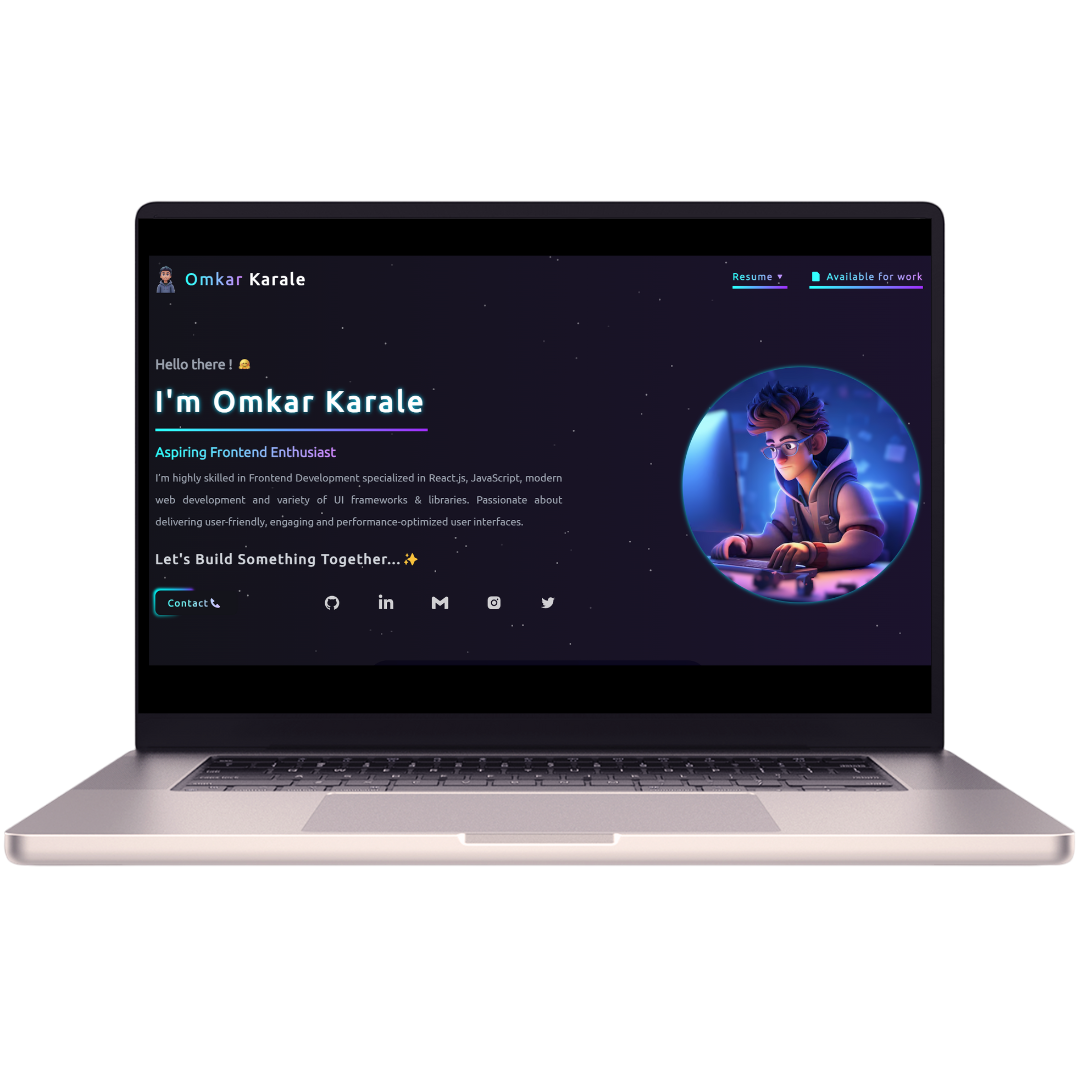
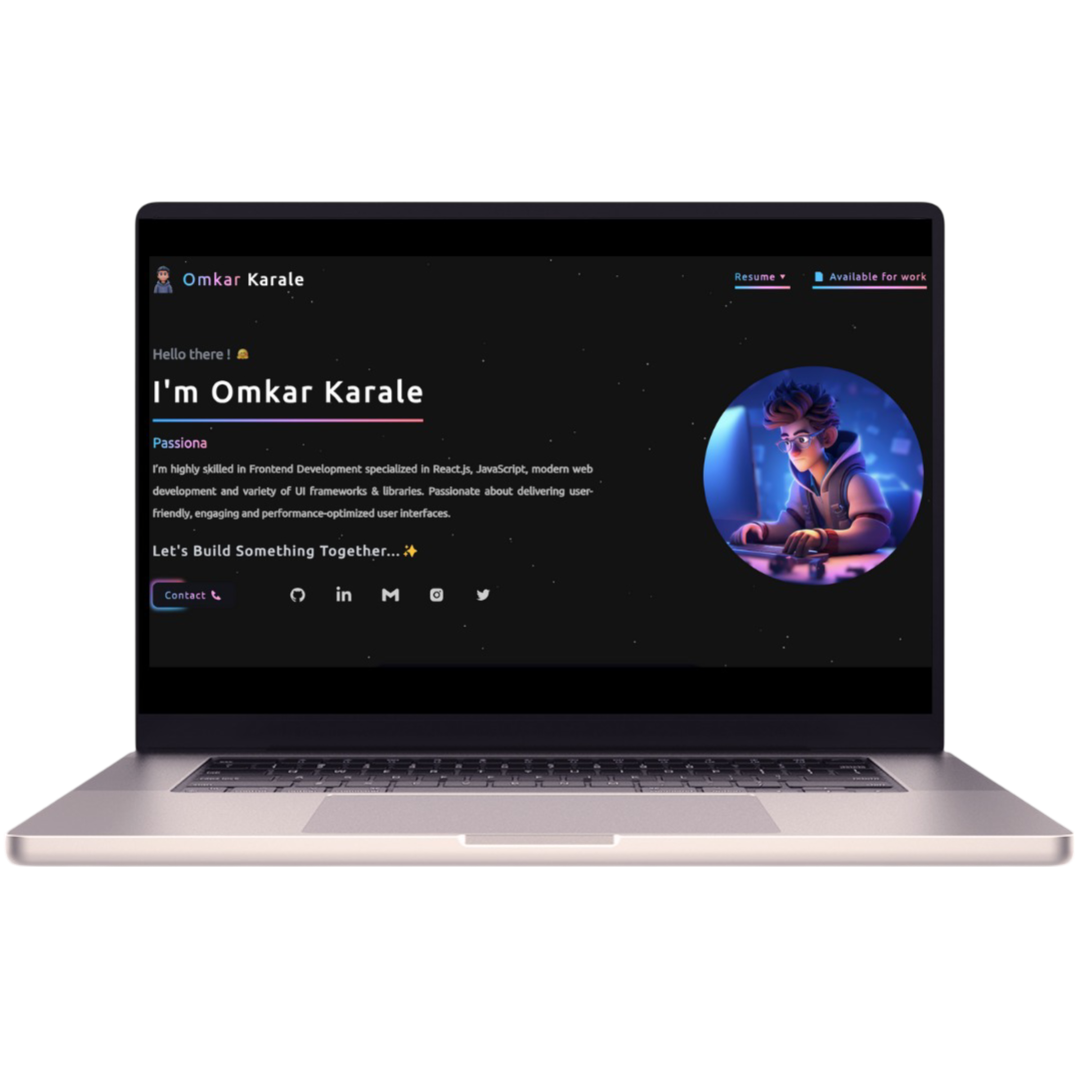
Modified the components for better UX

diff --git a/src/Components/Experience.jsx b/src/Components/Experience.jsx
@@ -19,31 +19,30 @@ const Experience = () => {
         </div>
         <div className='text-sm text-justify text-white/70'>
           <ul className='my-4'>
-            <li className='mb-2 flex items-center gap-2'>
-              <MdOutlineRemove className='font-extrabold max-sm:text-xl text-white' />
-              Designed and delivered responsive, high-performance user interfaces using React.js, ensuring a consistent and seamless experience across all devices and platforms.
+            <li className='mb-2 max-sm:mb-3 flex items-center gap-2'>
+              <MdOutlineRemove className='font-extrabold text-white text-xl max-sm:hidden' />
+              Designed and delivered impactful, scalable user interfaces using React.js, optimized development efficiency through the creation of modular, reusable components that improved code maintainability and reduced complexity.
             </li>
-            <li className='mb-2 flex items-center gap-2'>
-              <MdOutlineRemove className='font-extrabold max-sm:text-2xl text-lg text-white' />
-              Actively contributed to code reviews, identifying and resolving bugs while enhancing overall code quality.
-              Provided critical input on UI/UX design improvements, optimizing application flow and user experience.
+            <li className='mb-2 max-sm:mb-3 flex items-center gap-2'>
+              <MdOutlineRemove className='font-extrabold text-2xl text-white max-sm:hidden' />
+              Worked closely with designers to provide actionable feedback on UI/UX improvements that enhanced the overall application flow. Actively contributed to code reviews, identifying and resolving bugs, and implementing best practices for cleaner, and more maintainable code.
             </li>
-            <li className='mb-2 flex items-center gap-2'>
-              <MdOutlineRemove className='font-extrabold max-sm:text-xl text-white' />
-              Collaborated closely with senior developers to refine user interface designs, contributing to the continuous improvement of coding standards and best practices across the team.
+            <li className='mb-2 max-sm:mb-3 flex items-center gap-2'>
+              <MdOutlineRemove className='font-extrabold max-sm:text-xl text-white max-sm:hidden' />
+              Collaborated with cross-functional teams to refine UI designs, ensuring alignment with business goals and improving feature usability.
             </li>
-            <li className='mb-2 flex items-center gap-2'>
-              <MdOutlineRemove className='font-extrabold max-sm:text-xl text-white' />
-              Gained hands-on experience in web development, focusing on front-end technologies including HTML5, CSS3, JavaScript, React.js, and React-Bootstrap.
+            <li className='mb-2 max-sm:mb-3 flex items-center gap-2'>
+              <MdOutlineRemove className='font-extrabold max-sm:text-xl text-white max-sm:hidden' />
+              Implemented a responsive web design system that delivered a seamless, high-quality user experience across devices and platforms, ensuring consistency and accessibility.
             </li>
-            <li className='mb-2 flex items-center gap-2'>
-              <MdOutlineRemove className='font-extrabold max-sm:text-xl text-white' />
-              Utilized Git and GitHub for version control and collaborative development, ensuring streamlined code management and project tracking.
+            <li className='mb-2 max-sm:mb-3 flex items-center gap-2'>
+              <MdOutlineRemove className='font-extrabold max-sm:text-xl text-white max-sm:hidden' />
+              Utilized modern web technologies like HTML5, CSS3, JavaScript, React.js, and React-Bootstrap to deliver clean, efficient code with a strong emphasis on performance and scalability.
             </li>
           </ul>
 
           <div>
-            <p><h4 className='text-white font-bold'>Skills:</h4> React.js, HTML5, Cascading Style Sheets, (CSS), Bootstrap (Framework), JavaScript, User Experience (UX), User Interface Design</p>
+            <p><h4 className='text-white font-bold'>Skills:</h4> React.js, HTML5, Cascading Style Sheets (CSS), React-Bootstrap, JavaScript, User Interface Design, Git & GitHub</p>
           </div>
         </div>
       </div>

diff --git a/src/Components/Banner.jsx b/src/Components/Banner.jsx
@@ -23,8 +23,10 @@ const Banner = () => {
           <div className='flex flex-col sm:mt-12 lg:gap-2 gap-4 max-sm:mt-10 max-sm:mx-auto lg:w-[100%]'>
             <div className='w-full space-y-4 flex flex-col max-sm:items-center sm:items-center md:items-center lg:items-start hide-scrollbar'>
               <h1 className='flex gap-2 items-center lg:text-md text-xl font-bold animate-pulse text-gray-400 cursor-pointer hover:-translate-y-1 transition-all duration-500'>Hello there ! <img src={HII} alt="" className='w-7 h-7 lg:w-5 lg:h-5' /></h1>
-              <h1 className='font-extrabold py-2 lg:text-[2.5rem] text-[2.25rem] min-[320px]:text-[2rem] min-[1024px]:text-[2.625rem] tracking-widest img'> I'm Omkar Karale</h1>
-              <div className='lg:w-[61.5%] max-sm:w-[82%] md:w-[60%] h-1 bg-gradient-to-r from-[#2e86de] via-[#A071C4] to-[#D76571] animate-slideFade brightness-125'></div>
+              <div className='space-y-3'>
+                <h1 className='font-extrabold py-2 lg:text-[2.5rem] text-[2.25rem] min-[320px]:text-[2rem] min-[1024px]:text-[2.625rem] tracking-widest img'> I'm Omkar Karale</h1>
+                <div className='w-[100%] h-1 bg-gradient-to-r from-[#2e86de] via-[#A071C4] to-[#D76571] animate-slideFade brightness-125'></div>
+              </div>
               <div className='text-xl font-semibold text-gradient hover:text-gradient'>
                 <TypeAnimation
                   sequence={["Aspiring Frontend Enthusiast", 2000, "Passionate Web Developer", 2000, "Eager Learner of Web Wizardry", 2000]}
@@ -37,14 +39,14 @@ const Banner = () => {
               </div>
             </div>
             <div className="flex flex-col lg:items-start items-center md:gap-6 gap-8 w-full mx-auto">
-              <p className="text-[1rem] font-semibold  text-white/70 sm:text-[.95rem] text-justify">  I’m highly skilled in Frontend Development specialized in React.js, JavaScript, modern web development and variety of UI frameworks & libraries. Passionate about delivering user-friendly, engaging and performance-optimized user interfaces.
+              <p className="text-[0.95rem] font-semibold  text-white/70 sm:text-[1rem] text-justify">  I’m highly skilled in Frontend Development specialized in React.js, JavaScript, modern web development and variety of UI frameworks & libraries. Passionate about delivering user-friendly, engaging and performance-optimized user interfaces.
               </p>
               <div className="tracking-widest shadow-2x font-semibold hide-scrollbar">
-                <h1 data-aos="fade-up" data-aos-duration="2000" className='text-gray-300 lg:text-xl md:text-2xl max-xs:text-[18px] sm:text-2xl max-sm:text-xl '>Let's Build Something Together...✨</h1>
+                <h1 data-aos="fade-up" data-aos-duration="2000" className='text-gray-300 text-xl block mx-auto text-center'>Let's Build Something Together...✨</h1>
               </div>
               <div className='flex min-[1024px]:flex-nowrap min-[1024px]:gap-10 flex-wrap justify-between md:w-[100%] lg:w-[80%] w-[100%] sm:gap-y-12 max-sm:gap-y-12 md:gap-y-5 lg:gap-y-0 lg:py-2 py-3 cursor-pointer'>
                 <div className={`md:hidden min-[1024px]:hidden sm:hidden content`}>
-                  <NavLink to='https://drive.google.com/file/d/1rd5hOJNFTWpUasmsJAt4Wlr007IrZB6r/view?usp=sharing'>
+                  <NavLink to='https://drive.google.com/file/d/13uNqu7w0nDWGEncYf7l958qsKiJPJV3r/view?usp=sharing'>
                     <span className="flex items-center justify-center gap-2 tracking-widest text-gradient hover:-translate-y-1 transition-all ease-in-out duration-700">
                       Resume🔻
                       {/* <TiArrowSortedDown /> */}
@@ -91,7 +93,7 @@ const Banner = () => {
               </div>
             </div>
           </div>
-          <div className='block m-auto w-[100%] md:w-[50%] hover:animate-pulse lg:mx-0' data-aos="fade-left" data-aos-duration="2000">
+          <div className='block m-auto w-[100%] md:w-[55%] hover:animate-pulse lg:mx-0' data-aos="fade-left" data-aos-duration="2000">
             <img src={PIC} alt="Profile" className='lg:mt-10 rounded-full img m-auto' />
           </div>
         </div>

diff --git a/src/Components/Education.jsx b/src/Components/Education.jsx
@@ -24,13 +24,13 @@ const Education = () => {
   return (
     <div className="w-full h-auto shadow-inner shadow-[#789fef] hover:shadow-lg hover:shadow-[#789fef] bg-[#17191b]  hover:bg-black rounded-xl py-6 px-5 overflow-hidden cursor-pointer hover:scale-95 transition-all duration-300 grow">
       <h3 className="font-bold lg:text-lg text-xl text-center text-gradient hover:text-gradient tracking-wider">Education</h3>
-      <div className="flex flex-col lg:gap-y-8 gap-y-4">
+      <div className="block mx-auto lg:gap-y-8 space-y-10">
         <div className="flex space-x-3 mt-10 lg:mx-0 mx-auto">
           <div className="mt-[5px]">
             <div className="w-[6px] h-[6px] bg-[#ddbdf6] bg-opacity-60 rounded-full shadow-md"></div>
             <div className="h-20 w-[1px] ml-[2px] bg-white bg-opacity-10"></div>
           </div>
-          <div className="flex flex-col gap-3 text-sm lg:text-sm md:text-lg">
+          <div className="flex flex-col gap-3 text-sm lg:text-sm md:text-lg ">
             <h6 className="text-white">
               Specialization in Full Stack Web
               Developement

diff --git a/src/Components/Skills.jsx b/src/Components/Skills.jsx
@@ -24,7 +24,7 @@ const Skills = () => {
   return (
     <div className="w-full h-auto shadow-inner shadow-[#789fef] hover:shadow-lg hover:shadow-[#789fef] bg-[#17191b]  hover:bg-black rounded-xl py-6 md:px-7 overflow-hidden cursor-pointer hover:scale-95 transition-transform duration-300 grow">
       <h3 className="lg:text-lg text-xl text-center text-gradient hover:text-gradient tracking-wider">Skills</h3>
-      <div className="flex flex-wrap justify-center lg:gap-x-10 md:gap-x-24 gap-x-16 gap-y-10 py-10">
+      <div className="flex flex-wrap justify-center lg:gap-x-10 md:gap-x-24 gap-x-20 gap-y-10 py-10">
         {
           skills.map(({ icon, bg }, index) => (
             <div key={index} className={`p-2 rounded-xl transition-transform duration-300 transform hover:scale-110 shadow-md ${bg}`}>

diff --git a/src/Components/Connect.jsx b/src/Components/Connect.jsx
@@ -53,7 +53,7 @@ const Connect = () => {
   ];
 
   return (
-    <div className="w-full h-auto  shadow-inner shadow-[#789fef] hover:shadow-lg hover:shadow-[#789fef] bg-[#17191b]  hover:bg-black rounded-xl py-6 md:px-7 overflow-hidden cursor-pointer hover:scale-95 transition-all duration-300  grow">
+    <div className="w-full h-auto shadow-inner shadow-[#789fef] hover:shadow-lg hover:shadow-[#789fef] bg-[#17191b]  hover:bg-black rounded-xl py-6 md:px-7 overflow-hidden cursor-pointer hover:scale-95 transition-all duration-300  grow">
       <h3 className="font-extrabold lg:text-lg text-xl text-center text-gradient hover:text-gradient tracking-wider">Connect & Follow</h3>
       <div className='flex flex-wrap justify-center items-center py-10 mx-auto'>
         {

diff --git a/src/Components/Header.jsx b/src/Components/Header.jsx
@@ -47,7 +47,7 @@ const Header = () => {
         </div>
         <div data-aos="fade-down" data-aos-duration="2000" className='flex items-center sm:ml-28 gap-8 max-sm:hidden py-2'>
           <div className={work}>
-            <NavLink to="https://drive.google.com/file/d/1rd5hOJNFTWpUasmsJAt4Wlr007IrZB6r/view?usp=sharing" className="">
+            <NavLink to="https://drive.google.com/file/d/13uNqu7w0nDWGEncYf7l958qsKiJPJV3r/view?usp=sharing" className="">
               <span>Resume🔻</span>
               {/* <FaArrowDown className='animate-bounce' /> */}
             </NavLink>
